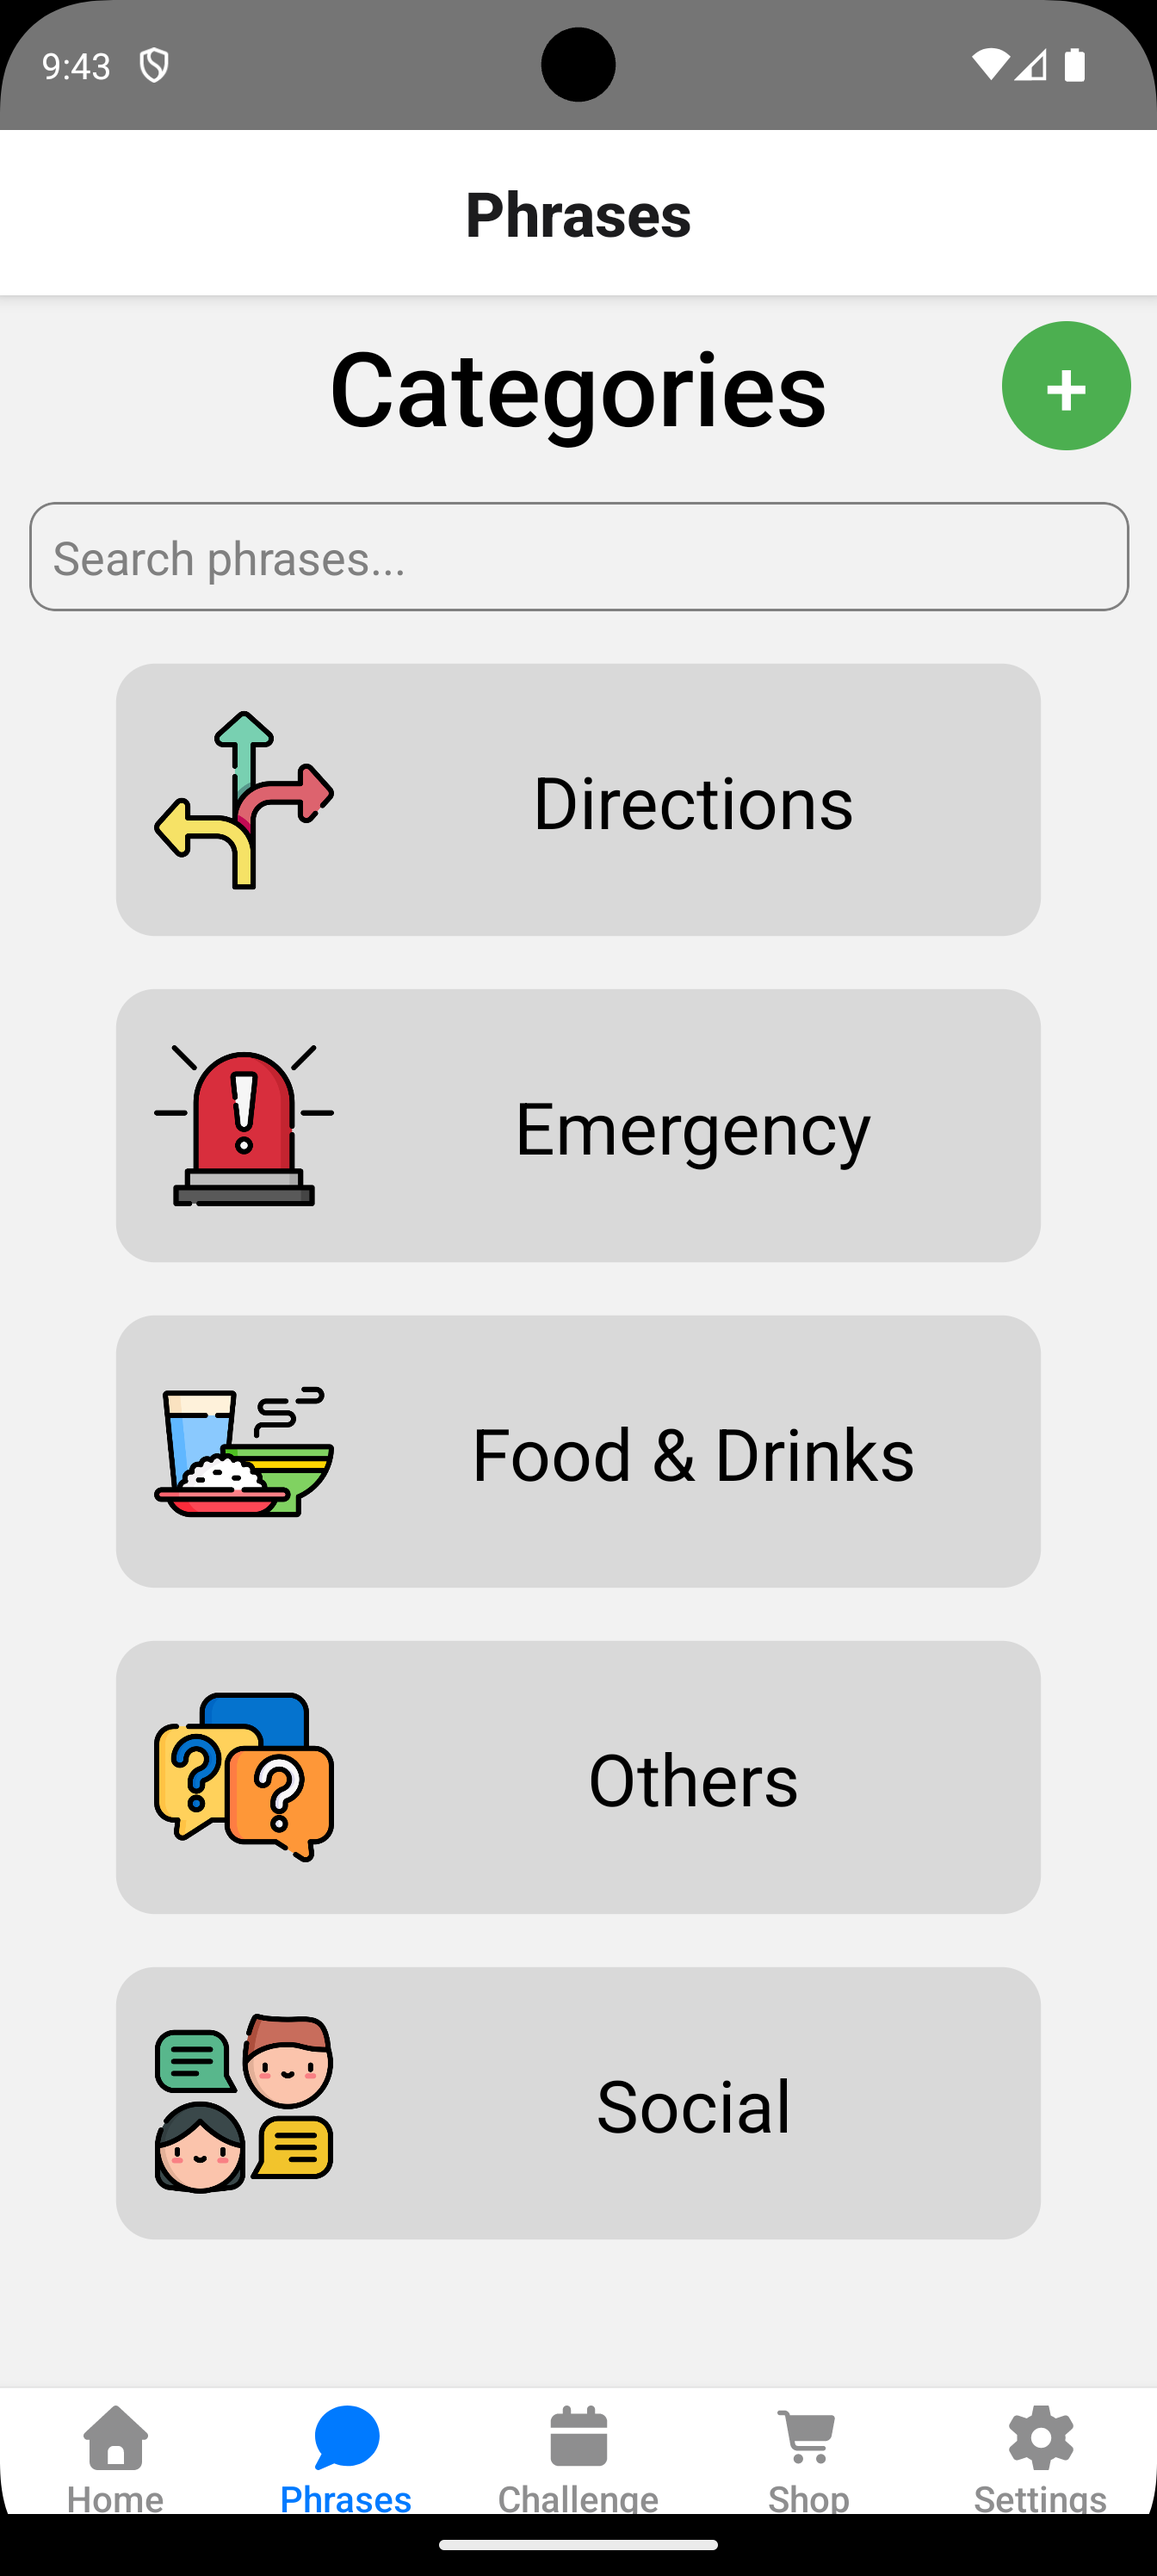
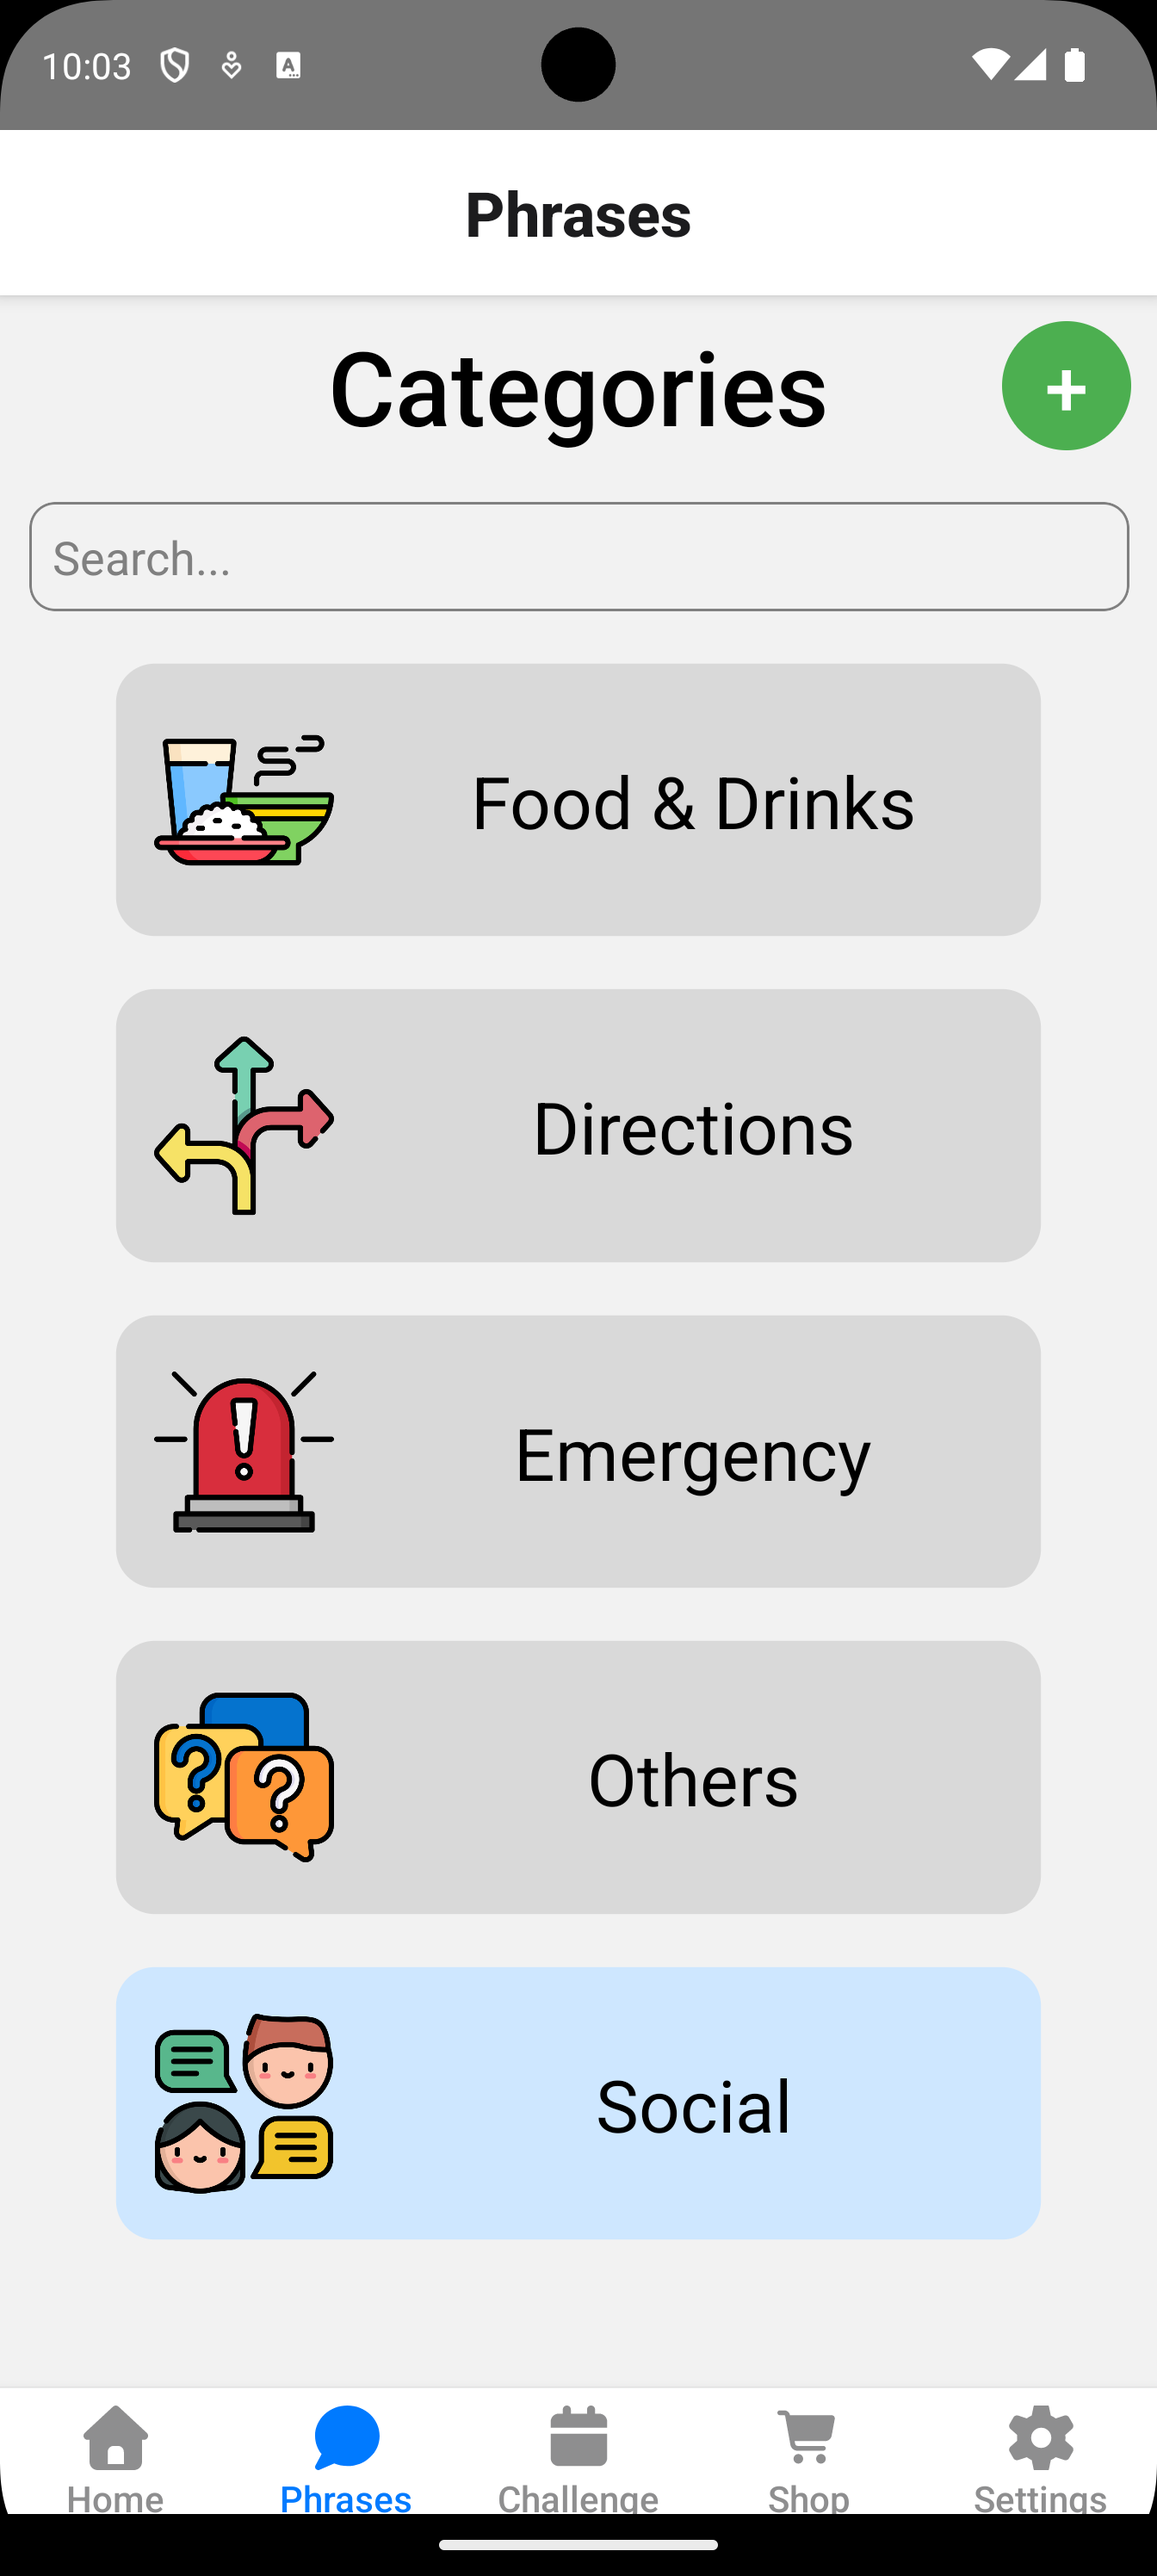
small edits and bug fixes here and there

diff --git a/app/screens/Phrases.js b/app/screens/Phrases.js
@@ -136,12 +136,56 @@ const Phrases = ({ buttonLayout, daily, caregiverNumber }) => {
         );
         addTask(newTask);
       } else {
-        const newChoice = {
-          text: newItemText.trim(),
-          image: selectedImage || null,
-          usageCount: 0,
-        };
-        addChoiceToTask(current.id, newChoice);
+        if (isAddProcess) {
+          // Adding a choice that leads to a new task
+          if (!taskTitle.trim()) {
+            Alert.alert(t('screens.phrases.errors.errorTitle'), t('screens.phrases.errors.enterProcessTitle'));
+            setIsAdding(false);
+            return;
+          } else if (!processSpeech.trim()) {
+            Alert.alert(t('screens.phrases.errors.errorTitle'), t('screens.phrases.errors.enterSpeechText'));
+            setIsAdding(false);
+            return;
+          }
+
+          const id =
+            taskTitle.trim().toLowerCase().replace(/\s+/g, '_') +
+            '_' +
+            newItemText.trim().toLowerCase().replace(/\s+/g, '_') +
+            '_' +
+            Date.now().toString();
+          
+          // Add the choice first
+          const newChoice = {
+            text: newItemText.trim(),
+            image: selectedImage || null,
+            usageCount: 0,
+          };
+          addChoiceToTask(current.id, newChoice);
+
+          // Create the new task
+          const newTask = createTask(
+            id,
+            taskTitle.trim(),
+            processSpeech.trim(),
+            processMultiSelect,
+            processDiverge,
+            'end',
+          );
+          addTask(newTask);
+
+          // Update the current task's next property to point to the new task
+          current.next = id;
+          editPhrase(null, current);
+        } else {
+          // Adding a simple choice
+          const newChoice = {
+            text: newItemText.trim(),
+            image: selectedImage || null,
+            usageCount: 0,
+          };
+          addChoiceToTask(current.id, newChoice);
+        }
       }
     } else if (isAddProcess) {
       if (targetTask === t('screens.phrases.errors.newTask')) {
@@ -348,6 +392,7 @@ const Phrases = ({ buttonLayout, daily, caregiverNumber }) => {
           image: item.image,
           type: item.type,
           bookmarked: bookmarkedTexts.includes(item.text),
+          markProcess: item.id !== undefined,
         }}
         buttonlayout={buttonLayout}
         onPress={() => handlePress(item)}
@@ -420,6 +465,7 @@ const Phrases = ({ buttonLayout, daily, caregiverNumber }) => {
             text: getSpeechText(),
             image: require('../../assets/phrases/speaker.png'),
             type: 'speech',
+            markProcess: true,
           }}
           buttonlayout={4}
           onPress={() => speak(getSpeechText(true))}
@@ -519,7 +565,7 @@ const Phrases = ({ buttonLayout, daily, caregiverNumber }) => {
   return (
     <>
       <ScrollView
-        style={[styles.scrollView, inProcess ? styles.process_container : null]}
+        style={styles.scrollView}
         contentContainerStyle={styles.container}
       >
         <View style={styles.topBar}>
@@ -609,6 +655,20 @@ const Phrases = ({ buttonLayout, daily, caregiverNumber }) => {
               onImageSelected={setSelectedImage}
               onImageRemoved={() => setSelectedImage(null)}
             />
+            {inProcess && !current.diverge && (
+              <View style={styles.inputSection}>
+                <Text style={styles.inputLabel}>{t('screens.phrases.add.choiceOrNewTask')}</Text>
+                <View style={styles.switchRow}>
+                  <Switch
+                    value={isAddProcess}
+                    onValueChange={setIsAddProcess}
+                  />
+                  <Text style={styles.switchText}>
+                    {isAddProcess ? t('screens.phrases.add.newTaskChoice') : t('screens.phrases.add.choice')}
+                  </Text>
+                </View>
+              </View>
+            )}
             {!inProcess && (
               <View style={styles.inputSection}>
                 <Text style={styles.inputLabel}>{t('screens.phrases.add.processOrCat')}</Text>
@@ -623,17 +683,19 @@ const Phrases = ({ buttonLayout, daily, caregiverNumber }) => {
                 </View>
               </View>
             )}
-            {(!inProcess && isAddProcess) || (inProcess && current.diverge) ? (
+            {(!inProcess && isAddProcess) || (inProcess && (current.diverge || isAddProcess)) ? (
               <>
-                <View style={styles.inputSection}>
-                  <Text style={styles.inputLabel}>{t('screens.phrases.add.targetTask', {item: inProcess ? 'choice' : 'Category'})}</Text>
-                  <Dropdown
-                    values={taskChoices}
-                    base={targetTask}
-                    changebase={setTargetTask}
-                  />
-                </View>
-                {targetTask === t('screens.phrases.errors.newTask') ? (
+                {(!inProcess && isAddProcess) || (inProcess && current.diverge) ? (
+                  <View style={styles.inputSection}>
+                    <Text style={styles.inputLabel}>{t('screens.phrases.add.targetTask', {item: inProcess ? 'choice' : 'Category'})}</Text>
+                    <Dropdown
+                      values={taskChoices}
+                      base={targetTask}
+                      changebase={setTargetTask}
+                    />
+                  </View>
+                ) : null}
+                {(targetTask === t('screens.phrases.errors.newTask')) || (inProcess && isAddProcess) ? (
                   <>
                     <View style={styles.inputSection}>
                       <Text style={styles.inputLabel}>{t('screens.phrases.add.taskTitle')}</Text>
@@ -856,9 +918,6 @@ const Phrases = ({ buttonLayout, daily, caregiverNumber }) => {
 const styles = StyleSheet.create({
   scrollView: {
     flex: 1,
-  },
-  process_container: {
-    backgroundColor: '#cee7ffff',
   },
   container: {
     alignItems: 'center',

diff --git a/app/context/PhrasesContext.js b/app/context/PhrasesContext.js
@@ -69,6 +69,7 @@ export const PhrasesProvider = ({ children }) => {
 
   const [bookmarkedTexts, setBookmarkedTexts] = useState([]);
   const [fromBookmark, setFromBookmark] = useState(false);
+  const [isDataLoaded, setIsDataLoaded] = useState(false);
 
   const [translatedStack, setTranslatedStack] = useState([]);
 
@@ -91,12 +92,13 @@ export const PhrasesProvider = ({ children }) => {
             setProcessesState(JSON.parse(storedProcesses));
           }
           if (storedBookmarks) {
-            setBookmarkedTexts(JSON.parse(storedBookmarks));
-            console.log('Loaded bookmarks:', JSON.parse(storedBookmarks));
+            const parsedBookmarks = JSON.parse(storedBookmarks);
+            setBookmarkedTexts(parsedBookmarks);
           }
         } catch (e) {
           console.warn('Failed to load data from storage', e);
         }
+        setIsDataLoaded(true);
       };
       loadData();
     }, []);
@@ -136,23 +138,23 @@ export const PhrasesProvider = ({ children }) => {
 
   useEffect(() => {
     const saveBookmarks = async () => {
+      // Don't save until initial data is loaded to prevent overwriting stored data
+      if (!isDataLoaded) return;
+      
       try {
         const stored = await AsyncStorage.getItem(bookmarksKey);
         const current = JSON.stringify(bookmarkedTexts);
+        
         // Only save when necessary to avoid writing on initial boot.
-        // Keep the existing behavior of not saving empty arrays unless storage differs.
         if (stored === null || stored !== current) {
-          // If bookmarkedTexts is empty and there's no stored value, writing an empty array is harmless.
-          // If bookmarkedTexts is empty but stored had values, this will persist the cleared state.
           await AsyncStorage.setItem(bookmarksKey, current);
-          console.log('Saved bookmarks:', bookmarkedTexts);
         }
       } catch (e) {
         console.warn('Failed to save bookmarks to storage', e);
       }
     };
     saveBookmarks();
-  }, [bookmarkedTexts]);
+  }, [bookmarkedTexts, isDataLoaded]);
 
   const getCurrentCategory = () => {
     if (navigationStack.length === 0) return categoriesState;
@@ -478,9 +480,10 @@ export const PhrasesProvider = ({ children }) => {
   // Toggle a bookmark for a phrase text
   const toggleBookmark = text => {
     if (!text) return;
-    setBookmarkedTexts(prev =>
-      prev.includes(text) ? prev.filter(t => t !== text) : [...prev, text],
-    );
+    setBookmarkedTexts(prev => {
+      const newBookmarks = prev.includes(text) ? prev.filter(t => t !== text) : [...prev, text];
+      return newBookmarks;
+    });
   };
 
   // Recursively collect choices from categoriesState whose text is bookmarked

diff --git a/app/screens/Daily.js b/app/screens/Daily.js
@@ -184,7 +184,7 @@ const Daily = ({ coins, setCoins, buttonLayout }) => {
         <View style={styles.container}>
             {/* Challenge and streak on same line */}
             <View style={styles.headerBar}>
-                <View style={{ width: 48 }}/>
+                <View style={{ width: 60 }}/>
                 <Text style={styles.challengeText}>
                     {t('screens.daily.challenge')} 
                     {chall && t(`phrases.${chall.text}`, {
@@ -247,7 +247,7 @@ const styles = StyleSheet.create({
         fontSize: 24,
         fontWeight: 'bold',
         color: '#FF6B35',
-        width: 48,
+        width: 60,
     },
     phrasesContainer: {
         flex: 1,

diff --git a/app/components/cell.js b/app/components/cell.js
@@ -78,10 +78,15 @@ const Cell = ({
         { height: screenHeight * height, width: screenWidth * widthFactor },
         content.type === 'selected'
           ? styles.selected_button
-          : content.type === 'next'
+          : null,
+        content.type === 'next'
           ? styles.next_button
           : null,
-        content.bookmarked ? styles.bookmarked_button : null,
+        content.bookmarked ?
+          styles.bookmarked_button 
+          : content.markProcess ?
+          { backgroundColor: '#cee7ffff'}
+          : null,
       ]}
       onPress={onPress}
       onLongPress={onLongPress}

diff --git a/app/screens/Settings.js b/app/screens/Settings.js
@@ -90,8 +90,8 @@ function Settings({
         <View style={styles.languageGrid}>
           {renderFlag('en', 'English')}
           {renderFlag('cn', '华文')}
-          {renderFlag('my', 'Malay')}
-          {renderFlag('ta', 'Tamil')}
+          {renderFlag('my', 'Bahasa Melayu')}
+          {renderFlag('ta', 'தமிழ்')}
         </View>
 
         <View style={{ height: 20 }} />
